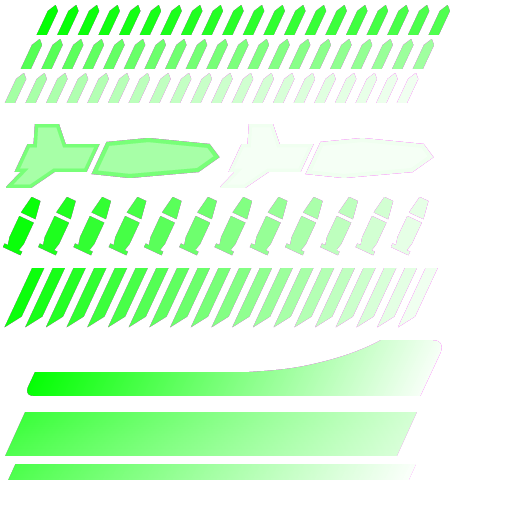
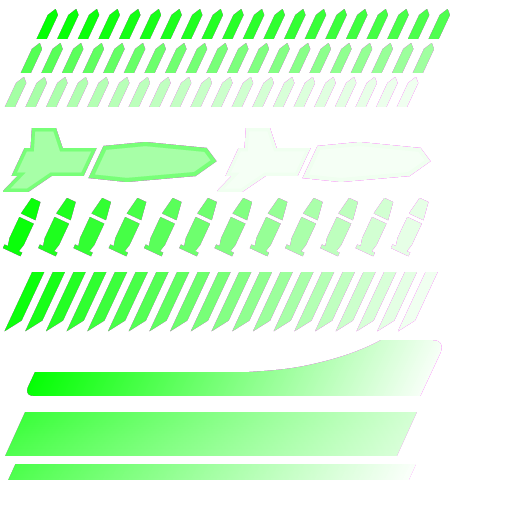
MCC maps: ammo meters offset from the low-ammo flash as on the Xbox
On the Xbox maps the flashing red low-ammo picture of most weapons sits
a HUD unit or so apart from the blue ammo meter, as the original Xbox
drew it. MCC's own art lines the two up, so the high-res meters laid
out from it did too. tools/hud_assets.py mcc-meters --xbox-map now sets
each MCC ammo meter cell's art against its weapon's low-ammo picture the
way the Xbox maps' high-res HUD has them, from both maps' weapon HUD
offsets and both layouts' cells, where every weapon using that meter
agrees. Meters no weapon pairs this way keep the content match.

Thanks OpenRift for the note.

diff --git a/tools/hud_assets.py b/tools/hud_assets.py
@@ -9,7 +9,8 @@ holds), laid out as the Xbox maps' sheets:
     python tools/hud_assets.py mcc-layout --map <MCC>/halo1/maps/bloodgulch.map \
         --map <MCC>/halo1/maps/a10.map --map <MCC>/halo1/maps/d40.map \
         --bitmaps <MCC>/halo1/maps/custom_edition/bitmaps.map \
-        --bitmaps <MCC>/halo1/maps/bitmaps.map --hek ../halopc-restored
+        --bitmaps <MCC>/halo1/maps/bitmaps.map --hek ../halopc-restored \\
+        --xbox-map assets/maps/bloodgulch.map
     python tools/hud_assets.py build
     python tools/hud_assets.py thresholds  # update only discrete segment data
     python tools/hud_assets.py check --map assets/maps/bloodgulch.map --out /tmp/hud_check
@@ -59,8 +60,12 @@ mcc-meters: MCC's stock meter sheets (the health, shield and ammo meters)
     each MCC cell matched with the restored meter sprite its shape overlaps
     best, aligned by its content, at MCC's scale (4x the Xbox's, as the
     art's). Every cell of a meter sheet must match at MCC_MATCH, or none of
-    it is laid out, so a meter is never half MCC's and half ours. Replaces
-    only the meters' entries in port/assets/hud/mcc_layout.json.
+    it is laid out, so a meter is never half MCC's and half ours. With
+    --xbox-map (the Xbox map the layout command read), each weapon's ammo
+    meter is set against its flashing low-ammo picture as the Xbox maps'
+    high-res HUD has them, a HUD unit or so apart (low_ammo_starts), rather
+    than lined up as MCC's art has them. Replaces only the meters' entries
+    in port/assets/hud/mcc_layout.json.
 build: draws port/assets/hud/art and svg with layout.json into
     port/assets/hud/*.png, and with mcc_layout.json into
     port/assets/hud/mcc/*.png (committed; the builds embed them).
@@ -843,7 +848,89 @@ def layout(arguments) -> None:
     LAYOUT.write_text(json.dumps({"assets": entries}, indent=1) + "\n")
 
 
-def mcc_meter_entries(mcc_map: "MccMap", tag: str, renders: dict) -> list:
+AMMO_ALPHAS = HUD + "combined\\hud_ammo_alphas"
+AMMO_METERS = HUD + "combined\\hud_ammo_meters"
+
+
+def weapon_ammo_pairs(game_map) -> dict:
+    """Each weapon HUD's ammo meter and the flashing low-ammo picture drawn
+    with it (a static of hud_ammo_alphas): {weapon HUD tag: (meter's
+    sequence, its offset, the static's sequence, its offset)}."""
+    pairs = {}
+    for (group_tag, tag), address in game_map.tags.items():
+        if group_tag != "wphi":
+            continue
+        header = game_map.read(address, 0x78)
+        found = [[], []]
+        for which in (0, 1):
+            count, elements = struct.unpack_from("<iI", header, 0x60 + which * 12)
+            for index in range(max(count, 0)):
+                element = game_map.read(elements + index * 0xB4, 0xB4)
+                offset = struct.unpack_from("<hh", element, 0x24)
+                name_address, = struct.unpack_from("<I", element, 0x4C)
+                name = game_map.read(name_address, 256).split(b"\0")[0].decode("latin-1")
+                sequence, = struct.unpack_from("<h", element, 0x78 if which == 0 else 0x6A)
+                found[which].append((name, sequence, offset))
+        statics = [entry for entry in found[0] if entry[0] == AMMO_ALPHAS]
+        meters = [entry for entry in found[1] if entry[0] == AMMO_METERS]
+        if len(statics) == 1 and len(meters) == 1:
+            pairs[tag] = (meters[0][1], meters[0][2], statics[0][1], statics[0][2])
+    return pairs
+
+
+def cell_shift(cell: dict) -> tuple:
+    """Where a cell's art starts against its rectangle's corner, in art texels."""
+    return cell["source"][0] - cell["clip"][0], cell["source"][1] - cell["clip"][1]
+
+
+def low_ammo_starts(xbox_map: "XboxMap", mcc_map: "MccMap") -> dict:
+    """Where each MCC ammo meter cell's art starts against its rectangle's
+    corner (art texels) for the meter to sit against its weapon's flashing
+    low-ammo picture as on the Xbox maps' high-res HUD: the Xbox's own
+    sheets (and so its high-res ones) set the two a HUD unit or so apart,
+    which MCC's line up. By the meter's sequence: {sequence: (x, y)}, only
+    where every weapon using that meter agrees. Both maps' art is 4 texels
+    to a HUD unit; MCC's offsets are in half units."""
+    def cells(layout, key, game_map, tag):
+        group = game_map.bitmap_group(tag)
+        result = {}
+        for sequence, sprites in enumerate(group["sequences"]):
+            if sprites:
+                bitmap = group["bitmaps"][sprites[0][0]]
+                rectangle = pixel_rectangle(sprites[0], bitmap["width"], bitmap["height"])
+                index = sprites[0][0]
+            else:
+                rectangle, index = None, sequence
+            for entry in layout:
+                if entry["tag"] == tag and entry["bitmap"] == index:
+                    for cell in entry["cells"]:
+                        if rectangle is None and len(entry["cells"]) == 1 or cell[key] == rectangle:
+                            result[sequence] = cell_shift(cell)
+        return result
+    xbox_layout = json.loads(LAYOUT.read_text())["assets"]
+    mcc_layout = json.loads(MCC_LAYOUT.read_text())["assets"] if MCC_LAYOUT.is_file() else []
+    xbox_cells = {tag: cells(xbox_layout, "xbox", xbox_map, tag) for tag in (AMMO_ALPHAS, AMMO_METERS)}
+    mcc_static_cells = cells(mcc_layout, "mcc", mcc_map, AMMO_ALPHAS)
+    xbox_pairs, mcc_pairs = weapon_ammo_pairs(xbox_map), weapon_ammo_pairs(mcc_map)
+    shifts = {}
+    for weapon, (meter, meter_offset, static, static_offset) in mcc_pairs.items():
+        if weapon not in xbox_pairs:
+            continue
+        x_meter, x_meter_offset, x_static, x_static_offset = xbox_pairs[weapon]
+        try:
+            ds, dm = xbox_cells[AMMO_ALPHAS][x_static], xbox_cells[AMMO_METERS][x_meter]
+            mcc_ds = mcc_static_cells[static]
+        except KeyError:
+            continue
+        shift = tuple(round(mcc_ds[axis] - (ds[axis] - dm[axis]) +
+                            4 * ((x_static_offset[axis] - x_meter_offset[axis]) -
+                                 (static_offset[axis] - meter_offset[axis]) / 2))
+                      for axis in (0, 1))
+        shifts.setdefault(meter, set()).add(shift)
+    return {meter: next(iter(found)) for meter, found in shifts.items() if len(found) == 1}
+
+
+def mcc_meter_entries(mcc_map: "MccMap", tag: str, renders: dict, starts: dict = None) -> list:
     """An MCC map's stock meter sheet (all its bitmaps) laid out from the
     Xbox maps' high-res meter cells (layout.json): [] for each bitmap if any
     cell matches nothing at MCC_MATCH, so the sheet stays wholly MCC's."""
@@ -889,6 +976,16 @@ def mcc_meter_entries(mcc_map: "MccMap", tag: str, renders: dict) -> list:
             score, corner, candidate = best
             found = {"mcc": list(cell), "art": candidate["art"], "source_scale": 1, "source": corner,
                      "clip": candidate["clip"], "kind": "meter", "score": round(score, 3)}
+            # (an ammo meter set against its weapon's low-ammo picture as on
+            # the Xbox maps, rather than where MCC's own art lines them up)
+            sequences = {sequence for sequence, sprites in enumerate(group["sequences"])
+                         if sprites and sprites[0][0] == index and
+                         tuple(pixel_rectangle(sprites[0], width, height)) == tuple(cell)}
+            placed = {starts[sequence] for sequence in sequences if starts and sequence in starts}
+            if len(placed) == 1:
+                start = next(iter(placed))
+                found["source"] = [candidate["clip"][0] + start[0], candidate["clip"][1] + start[1]]
+                found["xbox_low_ammo_offset"] = True
             # (discrete segments: MCC's fill order is the Xbox's, each
             # segment's one value)
             values = set(np.unique(texels[top:bottom, left:right, 2][alpha > 0]))
@@ -918,9 +1015,10 @@ def mcc_meters(arguments) -> None:
     resources = [MccResources(Path(path)) for path in arguments.bitmaps]
     mcc_map = MccMap(Path(arguments.map[0]), resources)
     renders = {}
+    starts = low_ammo_starts(XboxMap(Path(arguments.xbox_map)), mcc_map) if arguments.xbox_map else None
     entries = [entry for entry in json.loads(MCC_LAYOUT.read_text())["assets"] if entry["tag"] not in METERS]
     for tag in sorted(METERS):
-        entries += mcc_meter_entries(mcc_map, tag, renders)
+        entries += mcc_meter_entries(mcc_map, tag, renders, starts if tag == AMMO_METERS else None)
     entries.sort(key=lambda entry: entry["name"])
     MCC_LAYOUT.write_text(json.dumps({"assets": entries}, indent=1) + "\n")
 
@@ -998,8 +1096,10 @@ def mcc_layout(arguments) -> None:
                 print(f"{name}: {width}x{height} {MCC_FORMATS[bitmap['format']]} at {scale}x, {len(matched)} cells, "
                       f"{len(keep)} kept, worst match {min(cell['score'] for cell in matched):.2f}")
     # (the meters, from the Xbox maps' high-res meters: the first map's)
+    first = MccMap(Path(arguments.map[0]), resources)
+    starts = low_ammo_starts(XboxMap(Path(arguments.xbox_map)), first) if arguments.xbox_map else None
     for tag in sorted(METERS):
-        for entry in mcc_meter_entries(MccMap(Path(arguments.map[0]), resources), tag, renders):
+        for entry in mcc_meter_entries(first, tag, renders, starts if tag == AMMO_METERS else None):
             entries[entry["name"]] = entry
     keep_used(used, svg_root, False)
     MCC_LAYOUT.write_text(json.dumps({"assets": [entries[name] for name in sorted(entries)]}, indent=1) + "\n")
@@ -1229,12 +1329,14 @@ def main() -> None:
     command = commands.add_parser("mcc-layout")
     command.add_argument("--map", required=True, action="append")
     command.add_argument("--bitmaps", required=True, action="append")
+    command.add_argument("--xbox-map")
     command.add_argument("--hek", required=True)
     command.add_argument("--svg")
     command.add_argument("--font", default=TAHOMA_BOLD)
     command = commands.add_parser("mcc-meters")
     command.add_argument("--map", required=True, action="append")
     command.add_argument("--bitmaps", required=True, action="append")
+    command.add_argument("--xbox-map")
     commands.add_parser("build")
     commands.add_parser("thresholds")
     command = commands.add_parser("check")
